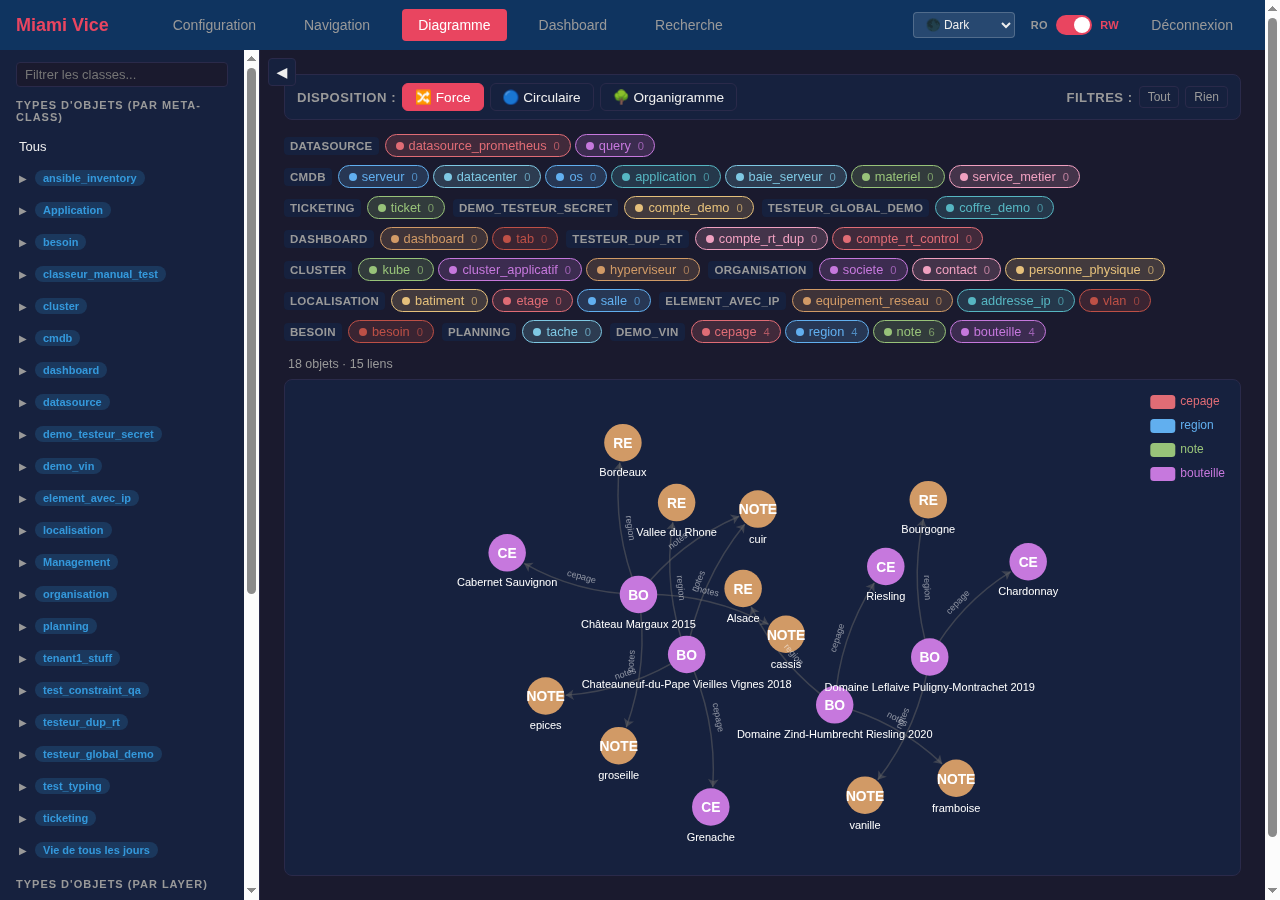
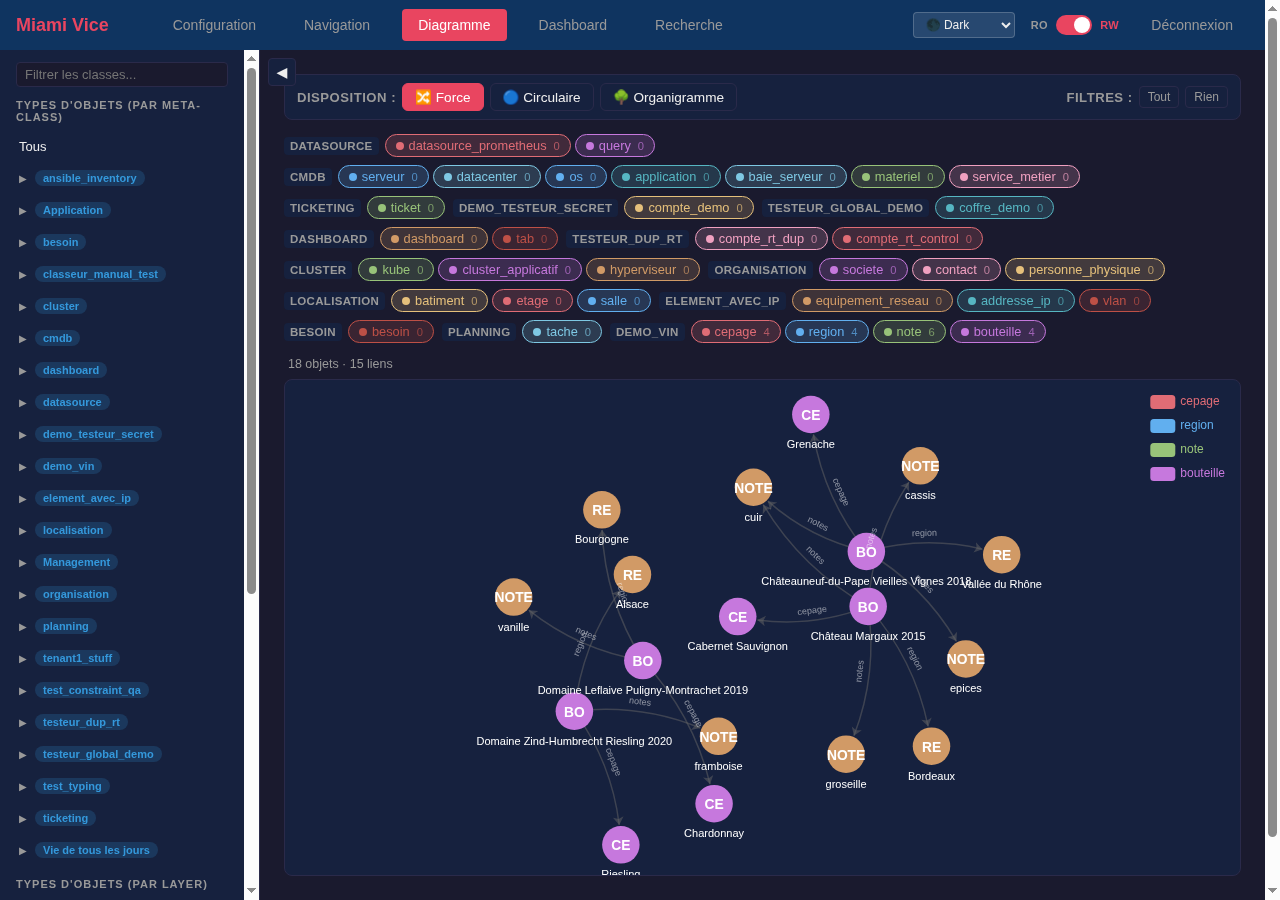
commit intermediaire

Changed region(s): [[0.375, 0.4667, 0.8125, 0.9333], [0.5938, 0.4356, 0.6562, 0.4978], [0.4688, 0.9022, 0.5, 0.9644]]

diff --git a/tools/screenshot_demo.py b/tools/screenshot_demo.py
@@ -143,25 +143,31 @@ def main():
     print("token present after reload:", evaluate(cdp, "!!localStorage.getItem('miami-vice-auth-token')"))
 
     label = {"configuration": "Configuration", "navigation": "Navigation", "diagramme": "Diagramme"}[args.page]
-    print("click nav:", evaluate(cdp, f"""
+    result = evaluate(cdp, f"""
     (function() {{
       const b = [...document.querySelectorAll('nav.navbar button')].find(x => x.textContent.trim() === '{label}');
       if (!b) return 'NOT_FOUND';
       b.click();
       return 'clicked:' + b.textContent;
     }})()
-    """))
+    """)
+    print("click nav:", result)
+    if isinstance(result, str) and result.startswith("NOT_FOUND"):
+        raise RuntimeError(result)
     time.sleep(1.0)
 
-    print("click meta:", evaluate(cdp, f"""
+    result = evaluate(cdp, f"""
     (function() {{
-      const badges = [...document.querySelectorAll('.badge-meta')];
+      const badges = [...document.querySelectorAll('.sidebar .badge-meta')];
       const b = badges.find(x => x.textContent.trim() === {json.dumps(args.meta_class)});
       if (!b) return 'NOT_FOUND meta, available=' + badges.map(x=>x.textContent).join(',');
       b.parentElement.click();
       return 'clicked meta ' + {json.dumps(args.meta_class)};
     }})()
-    """))
+    """)
+    print("click meta:", result)
+    if isinstance(result, str) and result.startswith("NOT_FOUND"):
+        raise RuntimeError(result)
     time.sleep(1.2)
 
     if args.page == "configuration":
@@ -172,7 +178,7 @@ def main():
         # region + note + bouteille), la carte voulue n'est pas forcément
         # dans le viewport de 900px : scrollIntoView sur son badge-class.
         if args.cls:
-            print("scroll to class card:", evaluate(cdp, f"""
+            result = evaluate(cdp, f"""
             (function() {{
               const badges = [...document.querySelectorAll('.main-content .badge-class')];
               const b = badges.find(x => x.textContent.trim() === {json.dumps(args.cls)});
@@ -180,14 +186,17 @@ def main():
               b.closest('.card').scrollIntoView({{block: 'start'}});
               return 'scrolled to class card ' + {json.dumps(args.cls)};
             }})()
-            """))
+            """)
+            print("scroll to class card:", result)
+            if isinstance(result, str) and result.startswith("NOT_FOUND"):
+                raise RuntimeError(result)
             time.sleep(0.8)
     elif args.cls:
         # Page navigation : pas besoin de narrower via la Sidebar (son arbre
         # meta_class est replié par défaut, le badge-class n'y est donc pas
         # rendu) - un simple scroll jusqu'au groupe de la classe visée dans
         # la liste déjà affichée (non narrowée) suffit et est plus robuste.
-        print("scroll to class group:", evaluate(cdp, f"""
+        result = evaluate(cdp, f"""
         (function() {{
           const badges = [...document.querySelectorAll('.main-content .badge-class')];
           const b = badges.find(x => x.textContent.trim() === {json.dumps(args.cls)});
@@ -195,7 +204,10 @@ def main():
           b.closest('.card').scrollIntoView({{block: 'start'}});
           return 'scrolled to class group ' + {json.dumps(args.cls)};
         }})()
-        """))
+        """)
+        print("scroll to class group:", result)
+        if isinstance(result, str) and result.startswith("NOT_FOUND"):
+            raise RuntimeError(result)
         time.sleep(0.8)
 
     if args.page == "diagramme":
